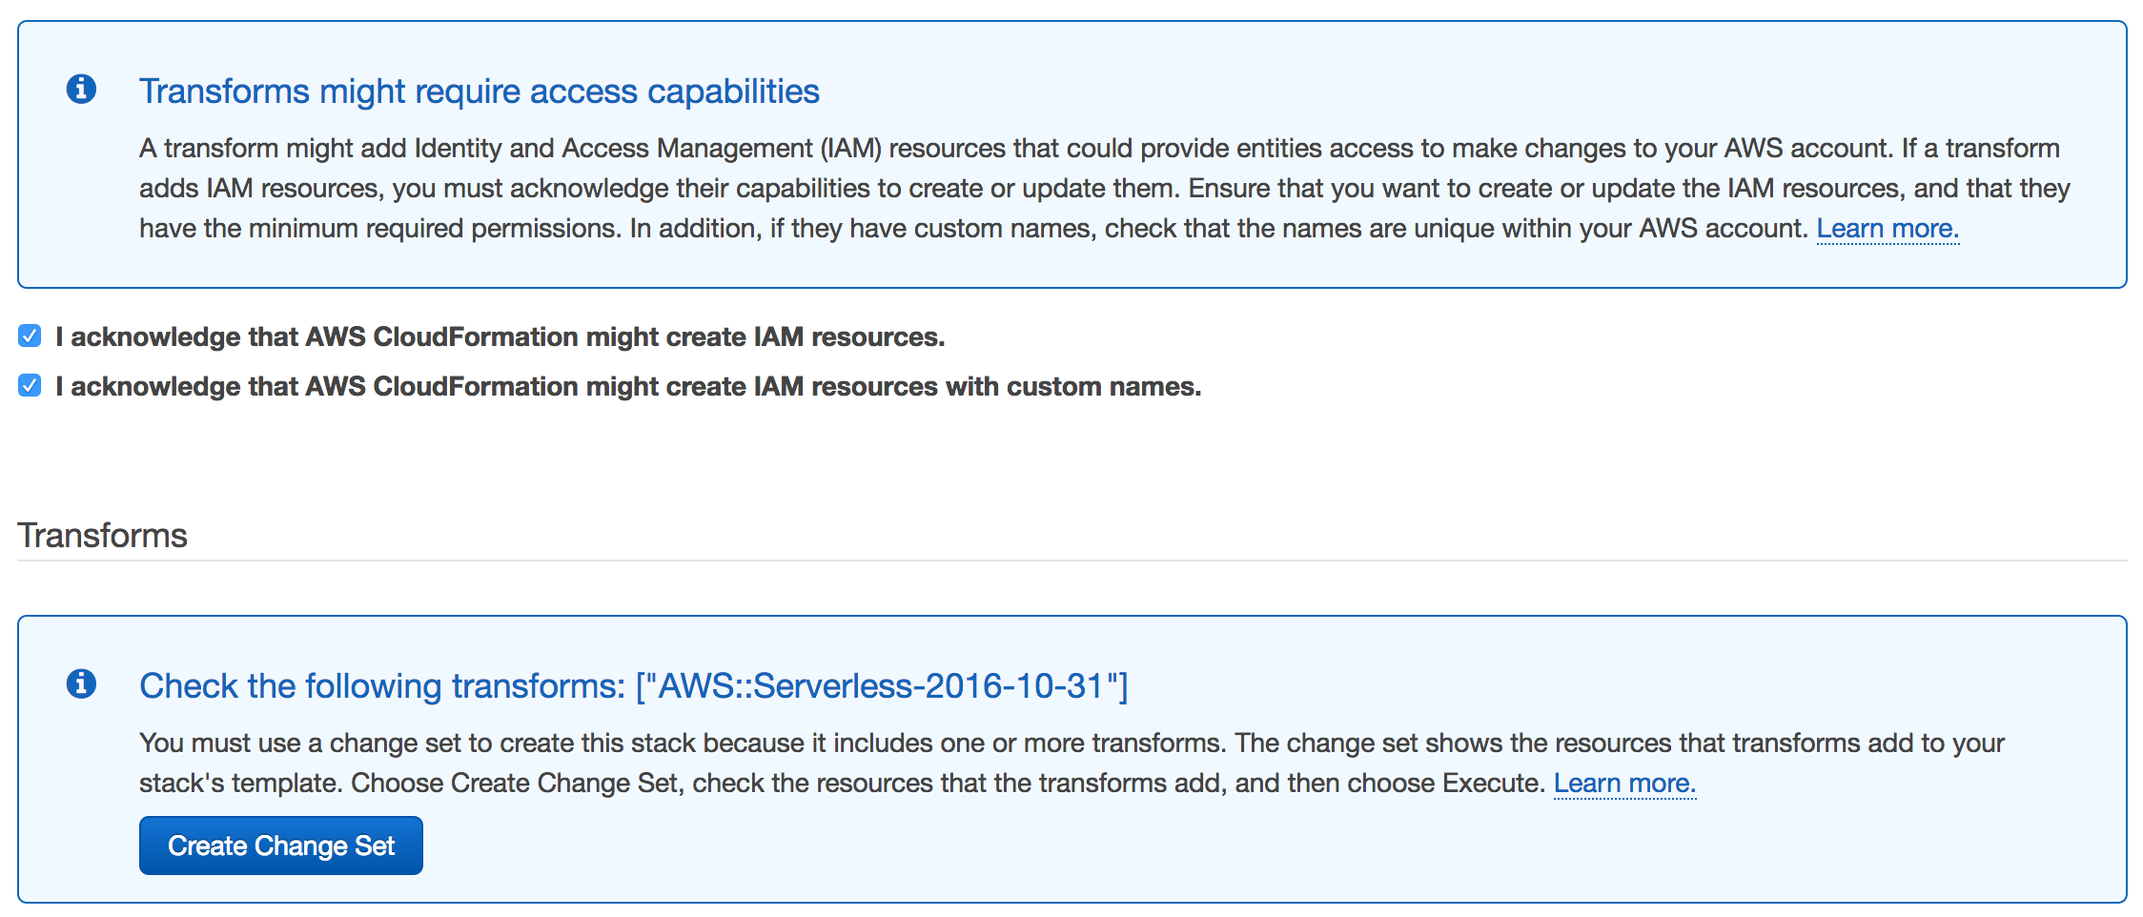
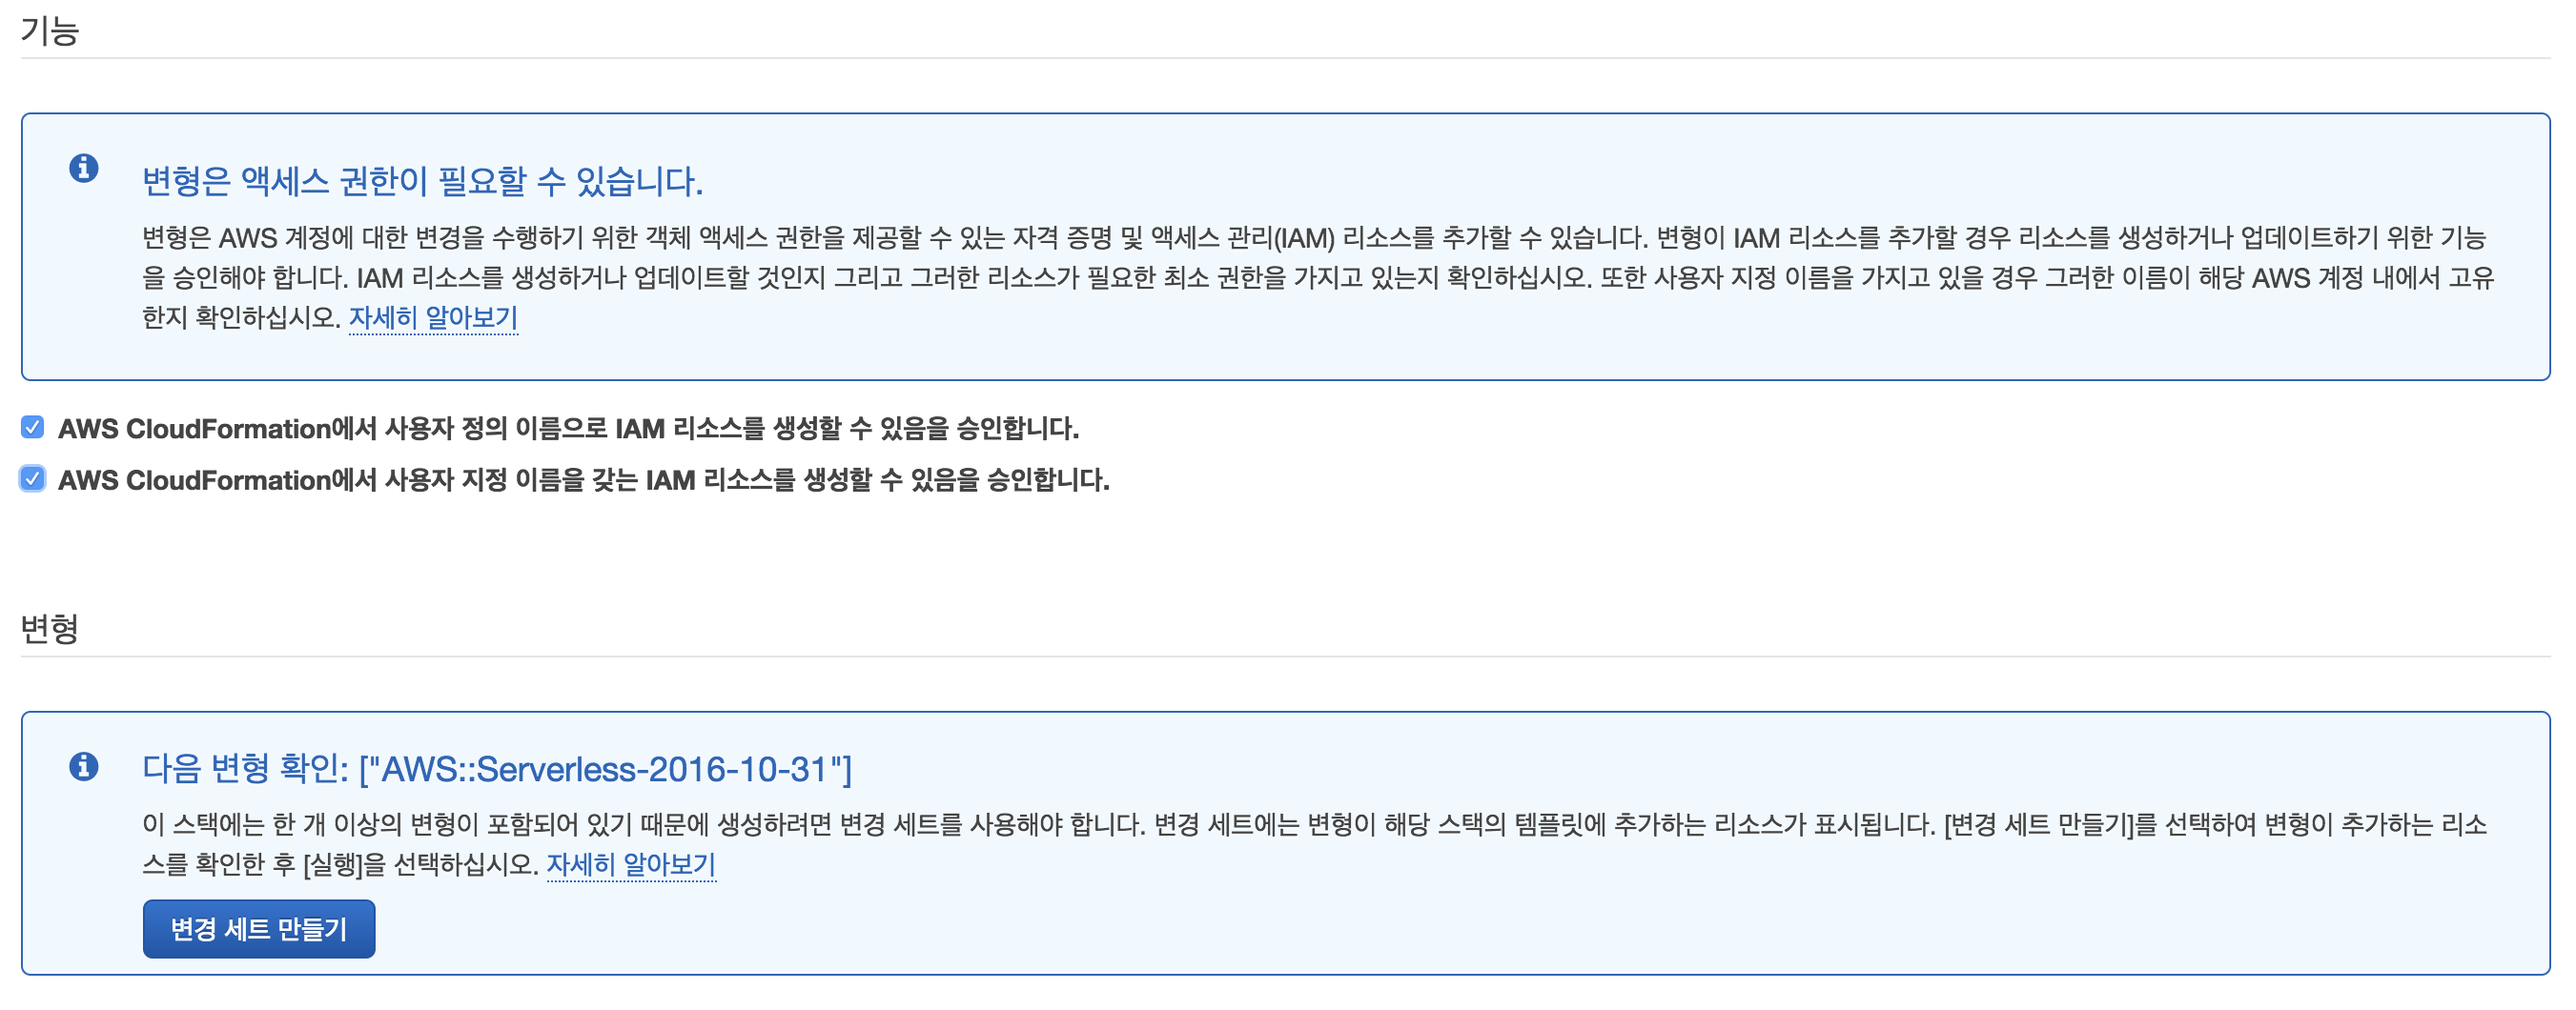
이미지 한글화

diff --git a/Workshop-Korean/step-5.md b/Workshop-Korean/step-5.md
@@ -70,7 +70,7 @@
 
 이제 이벤트를 테스트 할 준비가되었습니다! S3 버킷 내의 이미지를 "Incoming"폴더에 업로드하고 Step Functions 콘솔에서 실행을 확인하세요!
 
-1. S3 관리 콘솔에서 랜딩 버켓의 'Incoming/'프리픽스로 이동하여 **업로드**를 클릭하세요. 지원되는 형식 (JPEG 또는 PNG)의 이미지를 선택하세요. **다음을** 클릭하세요.
+1. S3 관리 콘솔에서 랜딩 버켓의 'Incoming/'로 이동하여 **업로드**를 클릭하세요. 지원되는 형식 (JPEG 또는 PNG)의 이미지를 선택하세요. **다음**을 클릭하세요.
 
 1. **다음** 및 **업로드**를 클릭하세요.
 

diff --git a/Workshop-Korean/step-6.md b/Workshop-Korean/step-6.md
@@ -29,7 +29,6 @@ Region| Code | Launch
 
 	![IAM 스크린 샷 승인](./images/0b-cfn-create-change-set.png)
 
-
 1. 변경 사항 설정이 완료되면 컴퓨팅 변경 사항을 완료하고 **실행**을 클릭하세요.
 
 	![변경 세트 실행 스크린 샷](./images/0b-cfn-execute-change-set.png)
